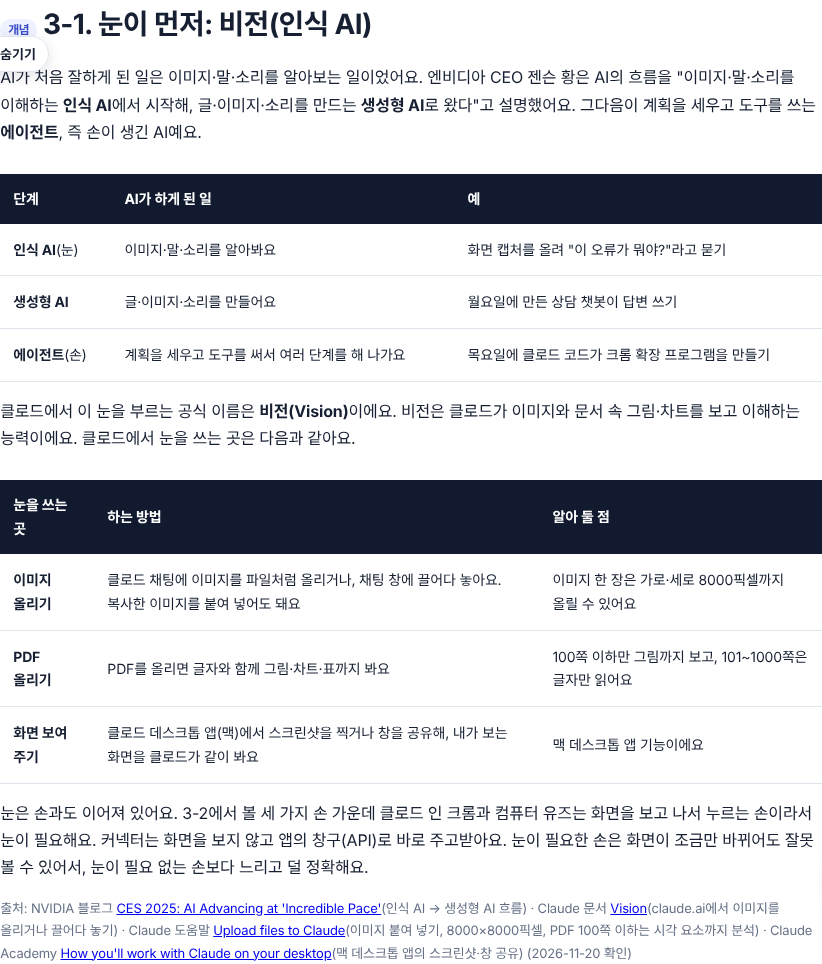
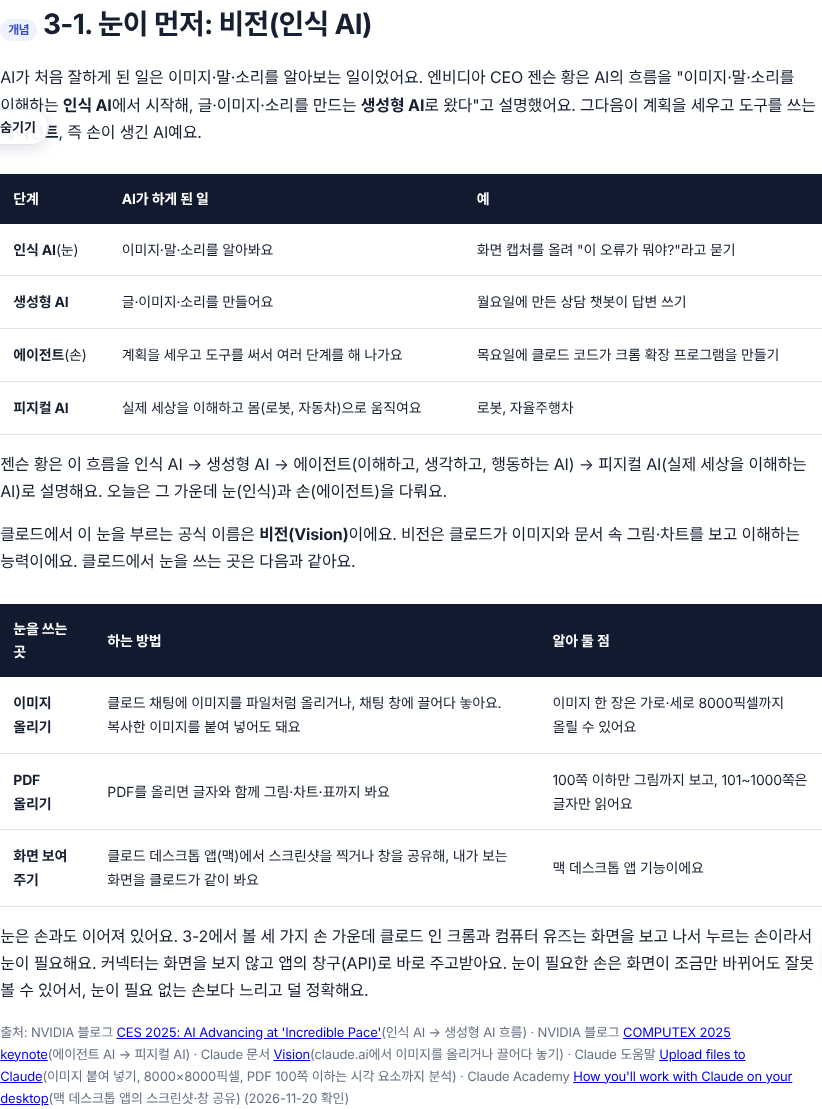
4주차 DAY5 3-1: AI 발전 흐름 표에 피지컬 AI와 젠슨 황 COMPUTEX 2025 설명 추가
Claude-Session: https://claude.ai/code/session_01C4uqyBneZ5NsxtxVEAgaKi

Changed region(s): [[0.0, 0.4046, 1.0, 1.0], [0.0, 0.0, 1.0, 0.3734]]

diff --git a/261116-ai-pm-week4/d5-agent.html b/261116-ai-pm-week4/d5-agent.html
@@ -526,7 +526,9 @@ aside nav a.active{border-left-color:var(--blue)}
 <tr><td><b>인식 AI</b>(눈)</td><td>이미지·말·소리를 알아봐요</td><td>화면 캡처를 올려 "이 오류가 뭐야?"라고 묻기</td></tr>
 <tr><td><b>생성형 AI</b></td><td>글·이미지·소리를 만들어요</td><td>월요일에 만든 상담 챗봇이 답변 쓰기</td></tr>
 <tr><td><b>에이전트</b>(손)</td><td>계획을 세우고 도구를 써서 여러 단계를 해 나가요</td><td>목요일에 클로드 코드가 크롬 확장 프로그램을 만들기</td></tr>
+<tr><td><b>피지컬 AI</b></td><td>실제 세상을 이해하고 몸(로봇, 자동차)으로 움직여요</td><td>로봇, 자율주행차</td></tr>
 </table></div>
+<p>젠슨 황은 이 흐름을 인식 AI → 생성형 AI → 에이전트(이해하고, 생각하고, 행동하는 AI) → 피지컬 AI(실제 세상을 이해하는 AI)로 설명해요. 오늘은 그 가운데 눈(인식)과 손(에이전트)을 다뤄요.</p>
 <p>클로드에서 이 눈을 부르는 공식 이름은 <b>비전(Vision)</b>이에요. 비전은 클로드가 이미지와 문서 속 그림·차트를 보고 이해하는 능력이에요. 클로드에서 눈을 쓰는 곳은 다음과 같아요.</p>
 <div class="table-wrap"><table><tr><th>눈을 쓰는 곳</th><th>하는 방법</th><th>알아 둘 점</th></tr>
 <tr><td><b>이미지 올리기</b></td><td>클로드 채팅에 이미지를 파일처럼 올리거나, 채팅 창에 끌어다 놓아요. 복사한 이미지를 붙여 넣어도 돼요</td><td>이미지 한 장은 가로·세로 8000픽셀까지 올릴 수 있어요</td></tr>
@@ -534,7 +536,7 @@ aside nav a.active{border-left-color:var(--blue)}
 <tr><td><b>화면 보여 주기</b></td><td>클로드 데스크톱 앱(맥)에서 스크린샷을 찍거나 창을 공유해, 내가 보는 화면을 클로드가 같이 봐요</td><td>맥 데스크톱 앱 기능이에요</td></tr>
 </table></div>
 <p>눈은 손과도 이어져 있어요. 3-2에서 볼 세 가지 손 가운데 클로드 인 크롬과 컴퓨터 유즈는 화면을 보고 나서 누르는 손이라서 눈이 필요해요. 커넥터는 화면을 보지 않고 앱의 창구(API)로 바로 주고받아요. 눈이 필요한 손은 화면이 조금만 바뀌어도 잘못 볼 수 있어서, 눈이 필요 없는 손보다 느리고 덜 정확해요.</p>
-<p class="source-note">출처: NVIDIA 블로그 <a href="https://blogs.nvidia.com/blog/ces-2025-jensen-huang/" target="_blank" rel="noopener">CES 2025: AI Advancing at 'Incredible Pace'</a>(인식 AI → 생성형 AI 흐름) · Claude 문서 <a href="https://platform.claude.com/docs/en/build-with-claude/vision" target="_blank" rel="noopener">Vision</a>(claude.ai에서 이미지를 올리거나 끌어다 놓기) · Claude 도움말 <a href="https://support.claude.com/en/articles/8241126-upload-files-to-claude" target="_blank" rel="noopener">Upload files to Claude</a>(이미지 붙여 넣기, 8000×8000픽셀, PDF 100쪽 이하는 시각 요소까지 분석) · Claude Academy <a href="https://academy.claude.com/courses/claude-101/claude-desktop-app-chat-cowork-code" target="_blank" rel="noopener">How you'll work with Claude on your desktop</a>(맥 데스크톱 앱의 스크린샷·창 공유) (2026-11-20 확인)</p>
+<p class="source-note">출처: NVIDIA 블로그 <a href="https://blogs.nvidia.com/blog/ces-2025-jensen-huang/" target="_blank" rel="noopener">CES 2025: AI Advancing at 'Incredible Pace'</a>(인식 AI → 생성형 AI 흐름) · NVIDIA 블로그 <a href="https://blogs.nvidia.com/blog/computex-2025-jensen-huang/" target="_blank" rel="noopener">COMPUTEX 2025 keynote</a>(에이전트 AI → 피지컬 AI) · Claude 문서 <a href="https://platform.claude.com/docs/en/build-with-claude/vision" target="_blank" rel="noopener">Vision</a>(claude.ai에서 이미지를 올리거나 끌어다 놓기) · Claude 도움말 <a href="https://support.claude.com/en/articles/8241126-upload-files-to-claude" target="_blank" rel="noopener">Upload files to Claude</a>(이미지 붙여 넣기, 8000×8000픽셀, PDF 100쪽 이하는 시각 요소까지 분석) · Claude Academy <a href="https://academy.claude.com/courses/claude-101/claude-desktop-app-chat-cowork-code" target="_blank" rel="noopener">How you'll work with Claude on your desktop</a>(맥 데스크톱 앱의 스크린샷·창 공유) (2026-11-20 확인)</p>
 </div>
 
 <div class="topic" id="s3-2"><h3><span class="stage">개념</span>3-2. 세 가지 손: 공식 이름과 뜻</h3>

diff --git a/_pr-notes/w4_DAY5_스킬채팅기준·서브에이전트삭제_261120/README.md b/_pr-notes/w4_DAY5_스킬채팅기준·서브에이전트삭제_261120/README.md
@@ -70,7 +70,7 @@
 ## 3차 수정 (같은 날): 발전 흐름에 맞춰 '눈(비전)' 추가
 
 - SESSION 3 제목: 「눈과 손이 생긴 AI: 비전·커넥터·클로드 인 크롬·컴퓨터 유즈」
-- 3-1 새로 추가 「눈이 먼저: 비전(인식 AI)」: 인식 AI → 생성형 AI → 에이전트 흐름 표, 클로드의 공식 이름 비전(Vision), 눈을 쓰는 곳 표(이미지 올리기, PDF 올리기, 맥 데스크톱 앱 스크린샷·창 공유), 눈이 필요한 손과 필요 없는 손의 구분
+- 3-1 새로 추가 「눈이 먼저: 비전(인식 AI)」: 인식 AI → 생성형 AI → 에이전트 → 피지컬 AI 흐름 표(젠슨 황 CES 2025·COMPUTEX 2025 설명, 교재 2장 4단계와 같음), 클로드의 공식 이름 비전(Vision), 눈을 쓰는 곳 표(이미지 올리기, PDF 올리기, 맥 데스크톱 앱 스크린샷·창 공유), 눈이 필요한 손과 필요 없는 손의 구분
 - 3-2(세 가지 손) 표에 '눈이 필요한가' 열 추가(커넥터 아니요, 클로드 인 크롬·컴퓨터 유즈 예), 실습은 3-3으로
 - 오늘의 단어에 비전(Vision) 추가
 - 근거(2026-11-20 확인): blogs.nvidia.com/blog/ces-2025-jensen-huang(인식 AI → 생성형 AI), platform.claude.com/docs/en/build-with-claude/vision, support.claude.com 8241126(이미지 붙여 넣기, 8000×8000픽셀, PDF 100쪽 이하 시각 요소 분석), academy.claude.com Claude 101 데스크톱 앱(맥 스크린샷·창 공유)
